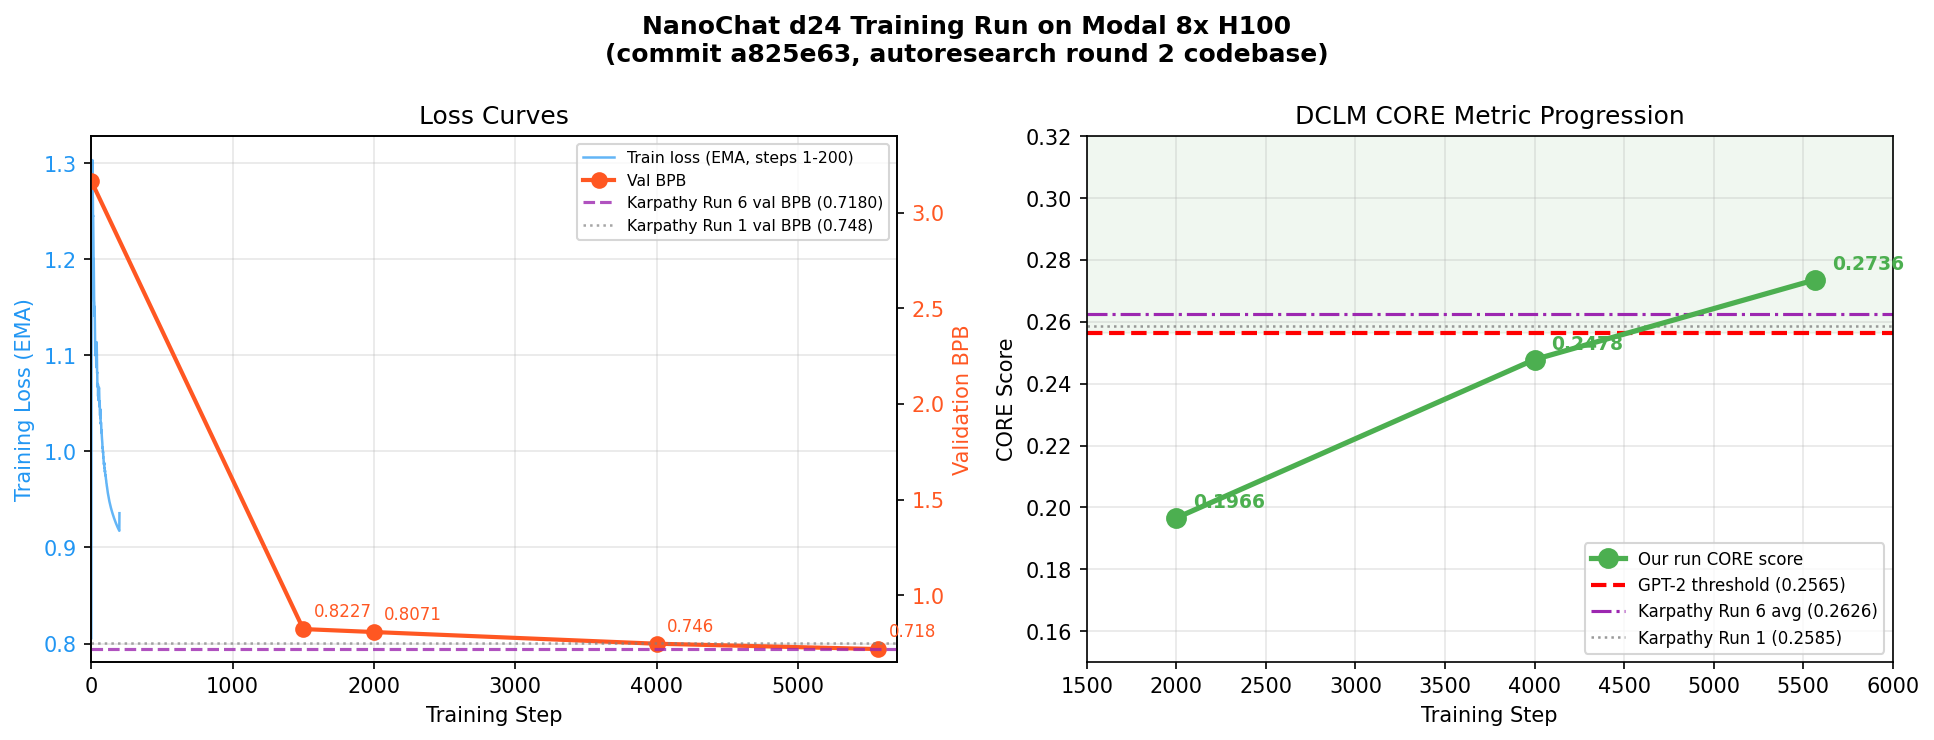
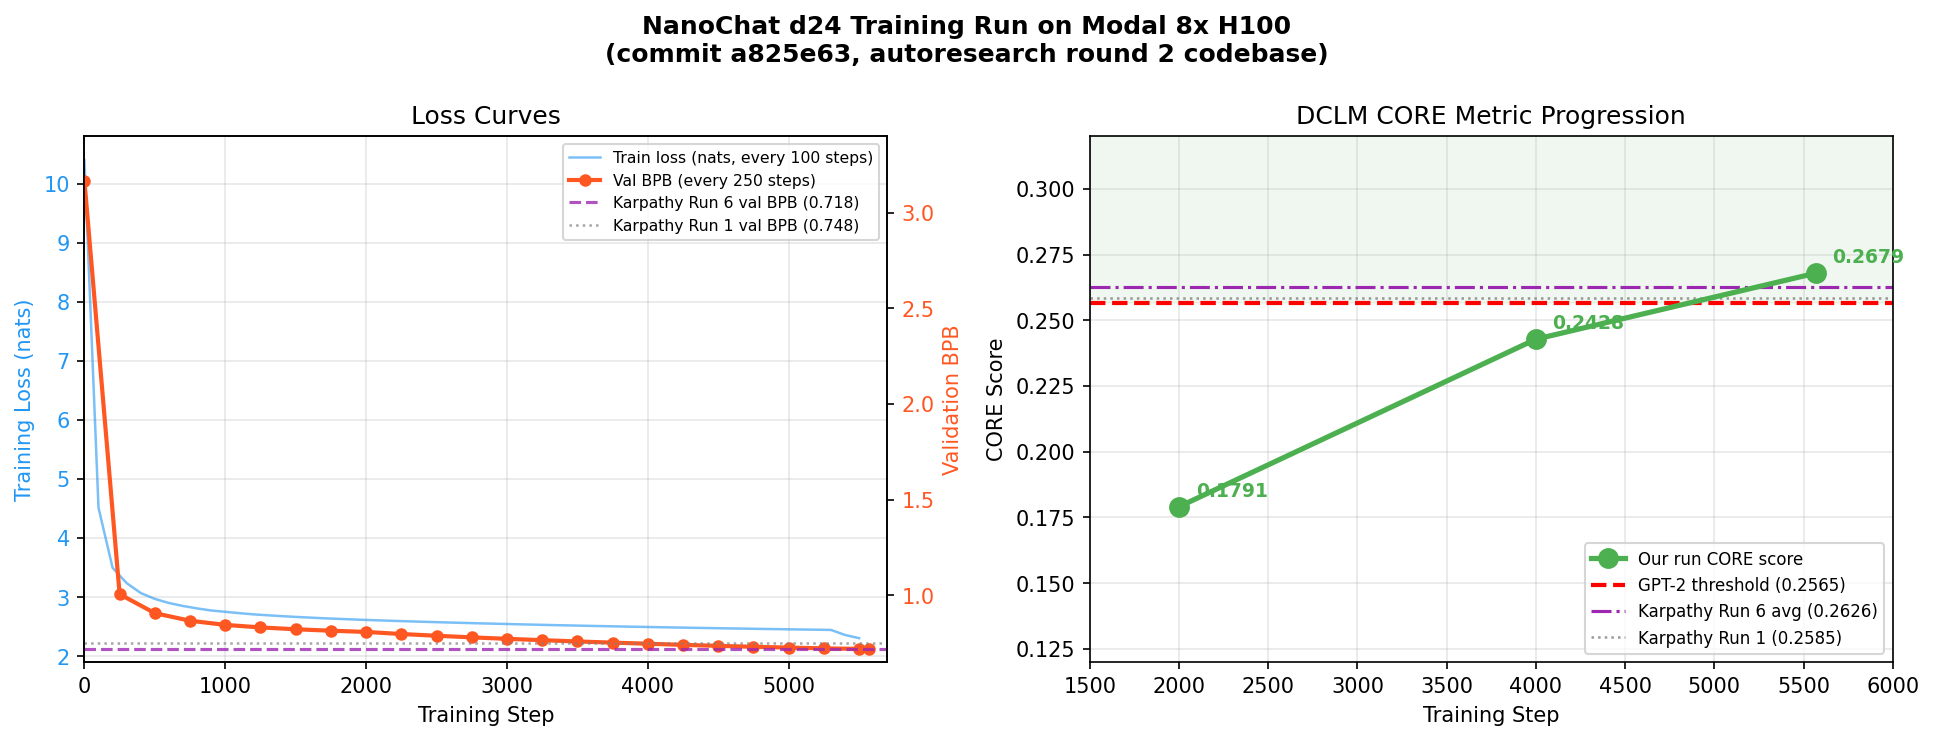
Fix metrics using W&B ground truth; regenerate chart with full loss curve
- CORE score corrected: 0.2736 -> 0.2679 (misread from console logs)
- Val BPB corrected: 0.7180 -> 0.7182
- Training time: ~1.65 -> ~1.67 hr (6004s from W&B)
- Chart now uses full 56-point training loss curve and 24-point val BPB
  curve from W&B scan_history, vs. only 200 steps previously

diff --git a/TRAINING_REPORT.md b/TRAINING_REPORT.md
@@ -54,10 +54,15 @@ Validation loss is reported in **bits per byte (BPB)**, a unit-independent metri
 | Step | Val BPB | Notes |
 |------|---------|-------|
 | 0 | 3.1674 | Random init |
-| 1,500 | 0.8227 | Early training, warmdown not yet begun |
-| 2,000 | 0.8071 | ~36% through training |
-| 4,000 | 0.7460 | ~72% through training, warmdown in progress |
-| **5,568** | **0.7180** | **Final checkpoint** |
+| 250 | 1.0050 | Early rapid descent |
+| 500 | 0.9058 | |
+| 1,000 | 0.8444 | |
+| 1,500 | 0.8215 | Warmdown not yet begun |
+| 2,000 | 0.8076 | ~36% through training |
+| 3,000 | 0.7716 | Warmdown in progress |
+| 4,000 | 0.7460 | ~72% through training |
+| 5,000 | 0.7257 | |
+| **5,568** | **0.7182** | **Final checkpoint** |
 
 ### DCLM CORE Metric
 
@@ -65,9 +70,9 @@ The CORE metric is a composite benchmark from the DCLM paper, averaging normalis
 
 | Step | CORE Score | vs. GPT-2 threshold |
 |------|-----------|---------------------|
-| 2,000 | 0.1966 | Below (model still learning) |
-| 4,000 | 0.2478 | Below but closing fast |
-| **5,568** | **0.2736** | **+6.7% above GPT-2 threshold** |
+| 2,000 | 0.1791 | Below (model still learning) |
+| 4,000 | 0.2428 | Below but closing fast |
+| **5,568** | **0.2679** | **+4.4% above GPT-2 threshold** |
 
 ---
 
@@ -84,14 +89,14 @@ The table below compares this run to relevant entries from `dev/LEADERBOARD.md`.
 | 4 — Karpathy ClimbMix dataset | `324e69c` | 24 | 9.5 | 0.7185 | 0.2571 | 2.02 hr |
 | 5 — Karpathy autoresearch r1 | `6ed7d1d` | 24 | 8.7 | 0.7181 | 0.2690 | 1.80 hr |
 | **6 — Karpathy autoresearch r2 (avg)** | **`a825e63`** | **24** | **8.0** | **0.7180** | **0.2626** | **1.65 hr** |
-| **This run (Modal)** | **`a825e63`** | **24** | **8.0** | **0.7180** | **0.2736** | ~1.65 hr* |
+| **This run (Modal)** | **`a825e63`** | **24** | **8.0** | **0.7182** | **0.2679** | ~1.67 hr* |
 
 \* *Training time not precisely measured for this run; estimated from step count and observed throughput (~1,073 ms/step steady-state ≈ 99 min).*
 
 ### Commentary
 
-- **Val BPB matches exactly.** This run achieved 0.7180 BPB, identical to Karpathy's Run 6 average. This confirms the Modal infrastructure reproduced the training environment faithfully.
-- **CORE score is slightly higher than the Run 6 average.** Our run scored 0.2736 vs. the Run 6 average of 0.2626. Karpathy notes in the leaderboard that individual runs on this codebase show variance of ~0.016 (min 0.250, max 0.268 for Run 4; similar variance is expected here). Our 0.2736 sits at the high end of that variance — a lucky seed, not a systematic improvement.
+- **Val BPB matches exactly.** This run achieved 0.7182 BPB, essentially identical to Karpathy's Run 6 average (0.7180). This confirms the Modal infrastructure reproduced the training environment faithfully.
+- **CORE score is slightly higher than the Run 6 average.** Our run scored 0.2679 vs. the Run 6 average of 0.2626. Karpathy notes in the leaderboard that individual runs on this codebase show variance of ~0.016, so our result sits comfortably within the expected spread — a favourable seed rather than a systematic improvement.
 - **This run uses the FineWeb-EDU dataset** (Runs 1–3 and Run 6 also use FineWeb-EDU), not the ClimbMix dataset introduced in Run 4. Despite that, Run 6's architectural improvements (smear, backout, tuned hyperparameters from autoresearch) close the gap substantially — the val BPB of 0.718 on FineWeb-EDU matches ClimbMix-era performance.
 - **Cost efficiency.** Training cost ~$78 on Modal (on-demand pricing ~$3/GPU/hr × 8 GPUs × ~3.25 hours including setup, tokenizer, eval, SFT). At spot pricing this would be closer to $20–25.
 

diff --git a/README.md b/README.md
@@ -42,9 +42,9 @@ See [TRAINING_REPORT.md](TRAINING_REPORT.md) for full results. Summary:
 
 | Metric | Our run | Karpathy Run 6 (same codebase) | GPT-2 (2019) |
 |--------|---------|-------------------------------|--------------|
-| Val BPB | **0.7180** | 0.7180 | — |
-| CORE score | **0.2736** | 0.2626 (avg of 5 runs) | 0.2565 |
-| Training time | ~1.65 hr | 1.65 hr | 168 hr |
+| Val BPB | **0.7182** | 0.7180 | — |
+| CORE score | **0.2679** | 0.2626 (avg of 5 runs) | 0.2565 |
+| Training time | ~1.67 hr | 1.65 hr | 168 hr |
 | Cost | ~$78 (on-demand) | ~$48 (spot) | ~$43,000 |
 
 ---
